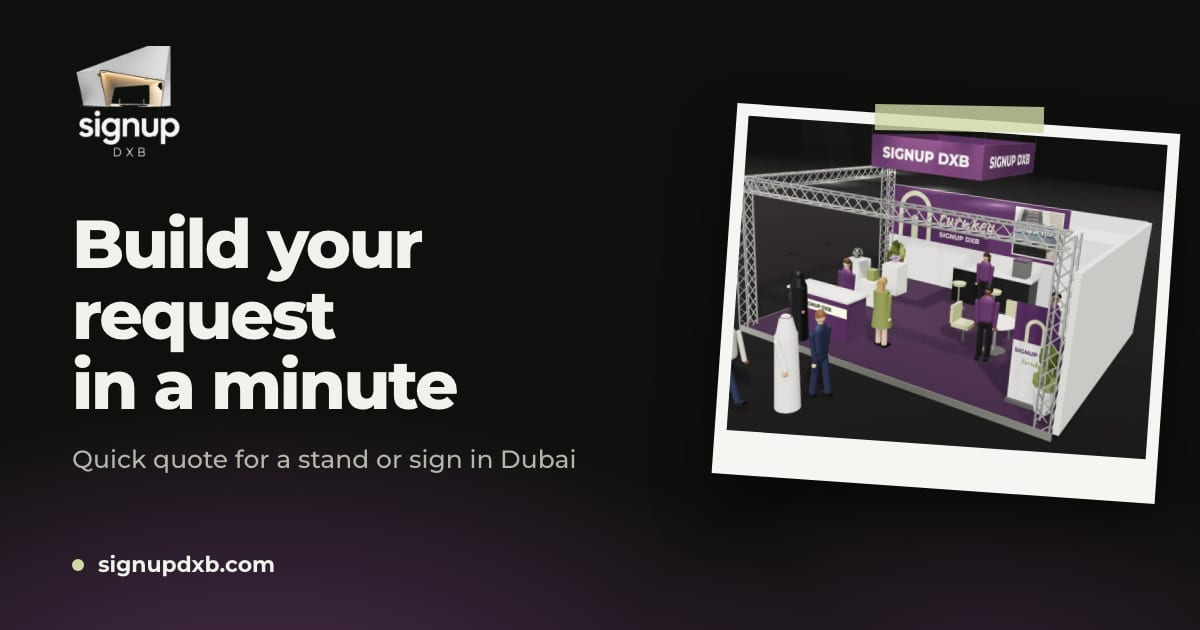
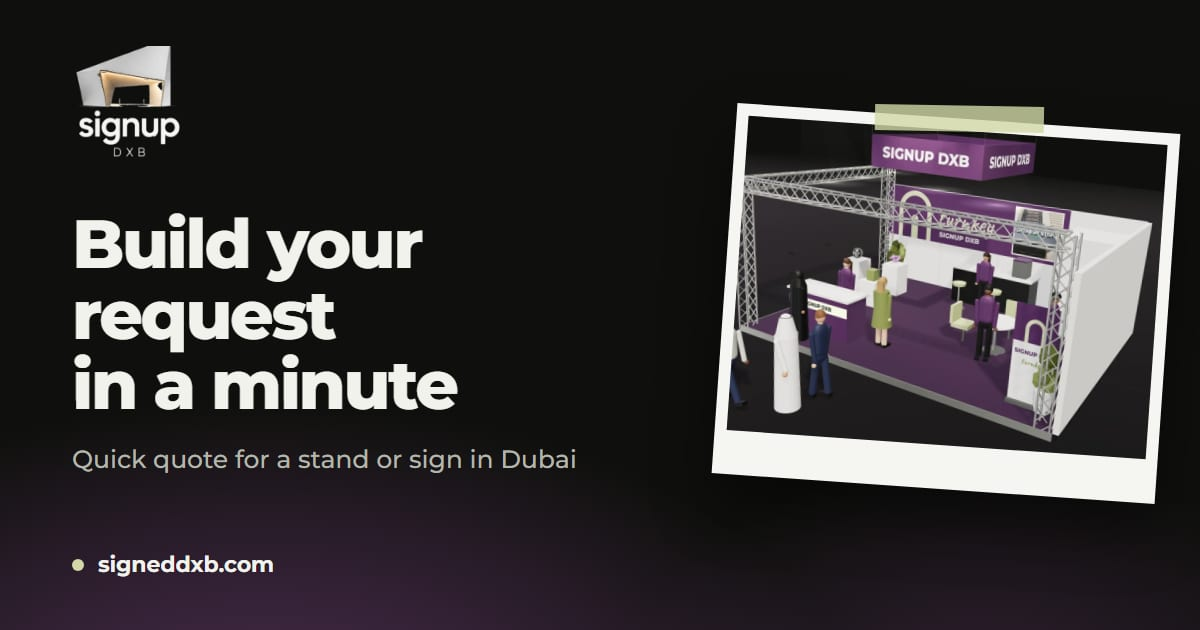
Переименование в SIGNED DXB и домен signeddxb.com
Название в текстах RU и EN, на 3D-стенде и неоновой вывеске, в заявках
и WhatsApp; адрес на картинках для соцсетей пересобран. Почта пока
info@signupdxb.com, логотип и кадры стенда — со старым названием.

diff --git a/web/src/consts.ts b/web/src/consts.ts
@@ -10,7 +10,7 @@ export const CONTACTS = {
   phoneHref: 'tel:+971502457669',
   whatsapp: 'https://wa.me/971502457669',
   email: 'info@signupdxb.com',
-  /** Instagram основателя: в шапке профиля — «Основатель SIGNUP DXB». */
+  /** Instagram основателя: в шапке профиля — «Основатель SIGNED DXB». */
   instagram: 'https://www.instagram.com/kris_dkf/',
 } as const;
 
@@ -19,8 +19,8 @@ export const CONTACTS = {
  * с чего начать, а мы сразу видим, что человек пришёл с сайта и откуда.
  */
 const WA_TEXT = {
-  ru: (ctx?: string) => `Здравствуйте! Пишу с сайта SIGNUP DXB${ctx ? `: ${ctx}` : ''}.`,
-  en: (ctx?: string) => `Hello! I’m writing from the SIGNUP DXB website${ctx ? `: ${ctx}` : ''}.`,
+  ru: (ctx?: string) => `Здравствуйте! Пишу с сайта SIGNED DXB${ctx ? `: ${ctx}` : ''}.`,
+  en: (ctx?: string) => `Hello! I’m writing from the SIGNED DXB website${ctx ? `: ${ctx}` : ''}.`,
 } as const;
 
 /** Текст первого сообщения. Контекст — раздел или страница; точка в конце не задваивается. */
@@ -48,7 +48,7 @@ const L = {
     /** Для производства порог другой: минимальный заказ — от 2 000 AED. */
     budgetsProduction: ['до 10 000 AED', '10 000–30 000 AED', '30 000–50 000 AED', 'больше 50 000 AED', 'пока не знаю'],
     areas: ['до 12 м²', '12–36 м²', '36–100 м²', 'больше 100 м²', 'пока не знаю'],
-    siteTitle: 'SIGNUP DXB — выставки в Дубае под ключ',
+    siteTitle: 'SIGNED DXB — выставки в Дубае под ключ',
     siteDescription:
       'Организуем участие в выставках в Дубае и Абу-Даби под ключ: стенд, печать, персонал, питание, логистика, консьерж-сервис. Производство наружной рекламы напрямую, без посредников.',
     nav: ['Выставки под ключ', 'Наружная реклама', 'Прайс', 'Консьерж-сервис', 'Контакты'],
@@ -67,7 +67,7 @@ const L = {
     budgets: ['AED 10,000–30,000', 'AED 30,000–50,000', 'AED 50,000–100,000', 'over AED 100,000', 'not sure yet'],
     budgetsProduction: ['under AED 10,000', 'AED 10,000–30,000', 'AED 30,000–50,000', 'over AED 50,000', 'not sure yet'],
     areas: ['up to 12 m²', '12–36 m²', '36–100 m²', 'over 100 m²', 'not sure yet'],
-    siteTitle: 'SIGNUP DXB — turnkey exhibitions in Dubai',
+    siteTitle: 'SIGNED DXB — turnkey exhibitions in Dubai',
     siteDescription:
       'Turnkey exhibition participation in Dubai and Abu Dhabi: stand, print, staff, catering, logistics and concierge. Outdoor advertising made directly with UAE production, no middlemen.',
     nav: ['Turnkey exhibitions', 'Outdoor advertising', 'Price list', 'Concierge', 'Contact'],
@@ -77,7 +77,7 @@ const L = {
 export type Local = (typeof L)[Lang];
 export const local = (lang: Lang) => L[lang];
 
-export const SITE_NAME = 'SIGNUP DXB';
+export const SITE_NAME = 'SIGNED DXB';
 
 /**
  * Лицензия Sole Professional № 107257 (DDA), выдана 29.09.2025.

diff --git a/web/src/scripts/stand3d.ts b/web/src/scripts/stand3d.ts
@@ -804,7 +804,7 @@ export async function createStand3D(root: HTMLElement, canvas: HTMLCanvasElement
     c.fillText(L.script!, 470, 262);
     c.fillStyle = 'rgba(242,242,236,0.85)';
     c.font = `800 54px ${FONT}`;
-    c.fillText('SIGNUP DXB', 492, 360);
+    c.fillText('SIGNED DXB', 492, 360);
     if (printImg) {
       cover(c, printImg, 1130, 30, 360, 350);
       c.strokeStyle = '#f2f2ec';
@@ -855,7 +855,7 @@ export async function createStand3D(root: HTMLElement, canvas: HTMLCanvasElement
     c.fillRect(0, 300, 768, 135);
     c.fillStyle = '#fff';
     c.font = `800 44px ${FONT}`;
-    c.fillText('SIGNUP DXB', 34, 404);
+    c.fillText('SIGNED DXB', 34, 404);
     c.fillStyle = '#d2d8a8';
     c.font = `600 60px ${SCRIPT}`;
     c.fillText(L.script!, 340, 408);
@@ -955,7 +955,7 @@ export async function createStand3D(root: HTMLElement, canvas: HTMLCanvasElement
     c.font = `800 120px ${FONT}`;
     c.textAlign = 'center';
     c.textBaseline = 'middle';
-    c.fillText('SIGNUP DXB', 512, 136);
+    c.fillText('SIGNED DXB', 512, 136);
   });
   const bannerFace = new THREE.MeshStandardMaterial({ map: bannerTex.tex, roughness: 0.9 });
   const ringParts: [number, number, number, number, FaceDir, number, number][] = [
@@ -1004,7 +1004,7 @@ export async function createStand3D(root: HTMLElement, canvas: HTMLCanvasElement
     c.font = `800 74px ${FONT}`;
     c.textAlign = 'center';
     c.textBaseline = 'middle';
-    c.fillText('SIGNUP DXB', 512, 68);
+    c.fillText('SIGNED DXB', 512, 68);
   });
   const stripMat = new THREE.MeshBasicMaterial({ map: stripTex.tex, toneMapped: false, color: 0x2a2b26 });
   const strip = new THREE.Mesh(decalGeo(1.8, 0.24, '+y'), stripMat);
@@ -1137,7 +1137,7 @@ export async function createStand3D(root: HTMLElement, canvas: HTMLCanvasElement
     c.fillStyle = '#59335f';
     c.font = `800 34px ${FONT}`;
     c.textAlign = 'center';
-    c.fillText('SIGNUP DXB', 128, 290);
+    c.fillText('SIGNED DXB', 128, 290);
     c.fillStyle = '#879152';
     c.font = `600 52px ${SCRIPT}`;
     c.fillText(L.script!, 128, 350);

diff --git a/web/src/scripts/stand2d.ts b/web/src/scripts/stand2d.ts
@@ -295,7 +295,7 @@ function build(root: HTMLElement) {
         c.globalAlpha = a0 * ledVis * ledOn * ledAlt;
         c.fillStyle = '#fff';
         c.font = `800 40px ${FONT}`;
-        c.fillText('SIGNUP DXB', 150, 100);
+        c.fillText('SIGNED DXB', 150, 100);
         c.globalAlpha = a0 * ledVis * ledOn * (1 - ledAlt);
         c.fillStyle = '#d2d8a8';
         c.font = `600 64px ${SCRIPT}`;
@@ -374,7 +374,7 @@ function build(root: HTMLElement) {
     c.fillStyle = '#fff';
     c.font = `800 40px ${FONT}`;
     c.textAlign = 'center';
-    c.fillText('SIGNUP DXB', w / 2, h / 2 + 14);
+    c.fillText('SIGNED DXB', w / 2, h / 2 + 14);
   };
   const ring = (['-y', '+y', '-x', '+x'] as Face[]).map((f) => {
     const b = new Box('#59335f', 'rgba(193,144,200,0.7)');
@@ -393,7 +393,7 @@ function build(root: HTMLElement) {
     c.fillStyle = stripOn > 0.5 ? '#0f100d' : '#4a4b45';
     c.font = `800 17px ${FONT}`;
     c.textAlign = 'center';
-    c.fillText('SIGNUP DXB', w / 2, 31);
+    c.fillText('SIGNED DXB', w / 2, 31);
   };
   const counterH = tr(0, [[14.6, 1], [27.0, 0]], DROP);
   const stripT = wn(15.2, 26.8);

diff --git a/web/src/styles/global.css b/web/src/styles/global.css
@@ -1,4 +1,4 @@
-/* Дизайн-система SIGNUP DXB — вариант 1b «сжатый бриф».
+/* Дизайн-система SIGNED DXB — вариант 1b «сжатый бриф».
    Значения сняты с макета design/SIGNUP-DXB-1b-szhatyy-brif.html:
    олива вместо тёмного первого экрана, слива как единственный сигнал
    действия, типографика крупнее прежней. */
@@ -532,7 +532,7 @@ ol {
   }
 }
 
-/* ---------- Мир SIGNUP DXB по мотивам exhibithappy.com ---------- */
+/* ---------- Мир SIGNED DXB по мотивам exhibithappy.com ---------- */
 
 ::selection {
   background: var(--olive-pastel);

diff --git a/web/src/i18n/ui.ts b/web/src/i18n/ui.ts
@@ -8,7 +8,7 @@ const UI = {
   ru: {
     skip: 'К содержанию',
     home: 'Главная',
-    homeAria: 'SIGNUP DXB — на главную',
+    homeAria: 'SIGNED DXB — на главную',
     breadcrumbs: 'Навигационная цепочка',
     mainMenu: 'Основное меню',
     mobileMenu: 'Мобильное меню',
@@ -129,7 +129,7 @@ const UI = {
   en: {
     skip: 'Skip to content',
     home: 'Home',
-    homeAria: 'SIGNUP DXB — home',
+    homeAria: 'SIGNED DXB — home',
     breadcrumbs: 'Breadcrumb',
     mainMenu: 'Main menu',
     mobileMenu: 'Mobile menu',

diff --git a/web/src/data/works.ts b/web/src/data/works.ts
@@ -6,7 +6,7 @@
  * public/img/works/ в двух размерах: wNN-600 и wNN-1200 (webp) + wNN-600.jpg.
  *
  * Подписи описывают технологию, а не бренд на вывеске: названия на фото —
- * это заказчики производства, а не клиенты SIGNUP DXB, и подписью мы этого
+ * это заказчики производства, а не клиенты SIGNED DXB, и подписью мы этого
  * не утверждаем.
  */
 import type { Lang } from '@/i18n';

diff --git a/web/functions/api/lead.ts b/web/functions/api/lead.ts
@@ -83,7 +83,7 @@ export const onRequestPost: PagesFunction<Env> = async ({ request, env }) => {
   if (!lead.contact) return json({ ok: false, error: 'no_contact' }, 422);
   if (file) lead.file = `${file.name} (${Math.round(file.size / 1024)} КБ)`;
 
-  const text = ['Заявка с сайта SIGNUP DXB', ...Object.entries(lead).map(([k, v]) => `${LABELS[k]}: ${v}`)].join('\n');
+  const text = ['Заявка с сайта SIGNED DXB', ...Object.entries(lead).map(([k, v]) => `${LABELS[k]}: ${v}`)].join('\n');
 
   const jobs: Promise<boolean>[] = [];
 

diff --git a/web/src/scripts/lead.ts b/web/src/scripts/lead.ts
@@ -16,7 +16,7 @@ export const MAX_FILE_BYTES = 10 * 1024 * 1024;
 
 const TEXT = {
   ru: {
-    head: 'Заявка с сайта SIGNUP DXB',
+    head: 'Заявка с сайта SIGNED DXB',
     labels: {
       name: 'Имя',
       contact: 'Контакт',
@@ -29,7 +29,7 @@ const TEXT = {
     } as Record<string, string>,
   },
   en: {
-    head: 'Request from the SIGNUP DXB website',
+    head: 'Request from the SIGNED DXB website',
     labels: {
       name: 'Name',
       contact: 'Contact',

diff --git a/web/src/data/prices.ts b/web/src/data/prices.ts
@@ -1,5 +1,5 @@
 /**
- * Прайс SIGNUP DXB.
+ * Прайс SIGNED DXB.
  * Источник — «Прайс SIGNUP DXB (для клиента).docx» от 22.09.2026.
  * Цены в AED без VAT, ориентировочные: точная сумма считается по размерам,
  * материалам и месту монтажа. Менять только вместе с документом заказчика.

diff --git a/web/src/scripts/hero-stand.ts b/web/src/scripts/hero-stand.ts
@@ -42,7 +42,7 @@ function loadFonts(script: string) {
   if (!fonts?.load) return Promise.resolve();
   return Promise.all([
     fonts.load('600 190px Caveat', `${script} под ключ turnkey`),
-    fonts.load('800 74px "Montserrat Variable"', 'SIGNUP DXB 48 м² 8 м'),
+    fonts.load('800 74px "Montserrat Variable"', 'SIGNED DXB 48 м² 8 м'),
   ]).then(
     () => undefined,
     () => undefined,

diff --git a/web/scripts/fonts.py b/web/scripts/fonts.py
@@ -28,9 +28,9 @@ CAV = ROOT / 'node_modules' / '@fontsource' / 'caveat' / 'files'
 
 # Всё, что рисуется Caveat: «под ключ» / «Turnkey» в заголовке главной,
 # «работаем» / «work» в «Как мы работаем», «под ключ» / «turnkey» на текстурах
-# 3D-стенда, «signup» на неоновой вывеске запасного варианта первого экрана.
+# 3D-стенда, «signed» на неоновой вывеске запасного варианта первого экрана.
 # Обе регистра букв, пробел и простая пунктуация.
-WORDS = 'под ключ turnkey работаем work signup'
+WORDS = 'под ключ turnkey работаем work signed'
 CAVEAT_TEXT = ''.join(sorted(set(WORDS.lower() + WORDS.upper()))) + ' .,!?-–—’\'"«»:;()'
 
 MONT_SUBSETS = ['latin', 'latin-ext', 'cyrillic', 'cyrillic-ext']

diff --git a/README.md b/README.md
@@ -1,4 +1,4 @@
-# SIGNUP DXB — сайт
+# SIGNED DXB — сайт
 
 Организация участия в выставках в Дубае под ключ и собственное производство наружной рекламы.
 
